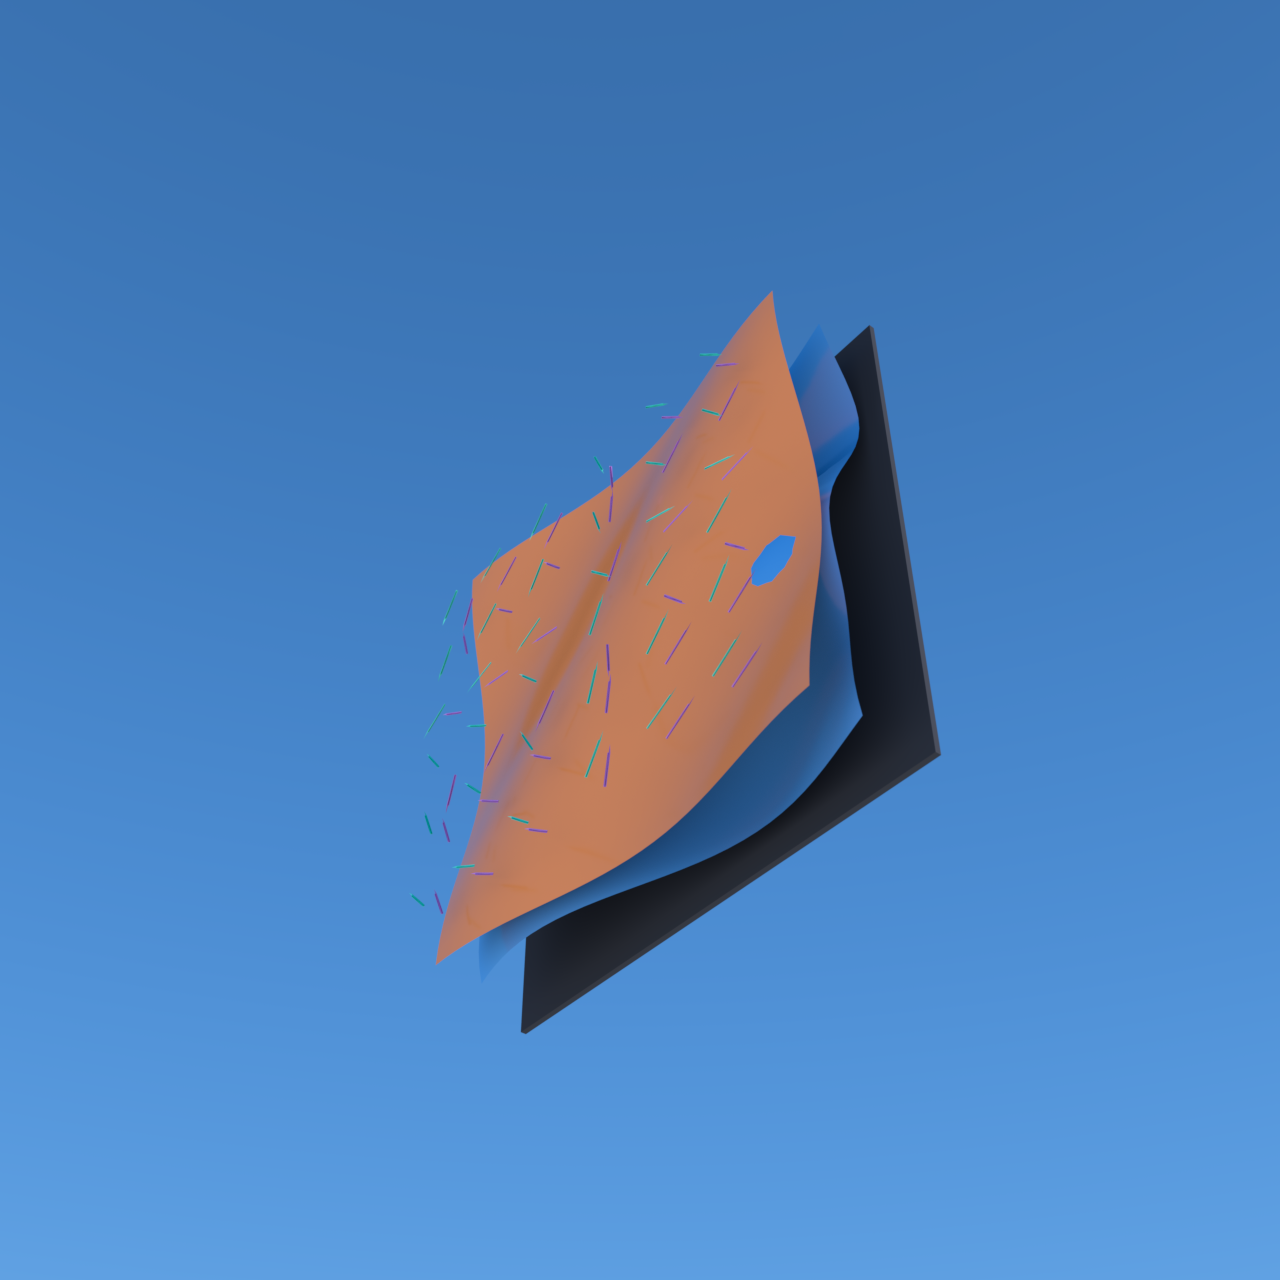
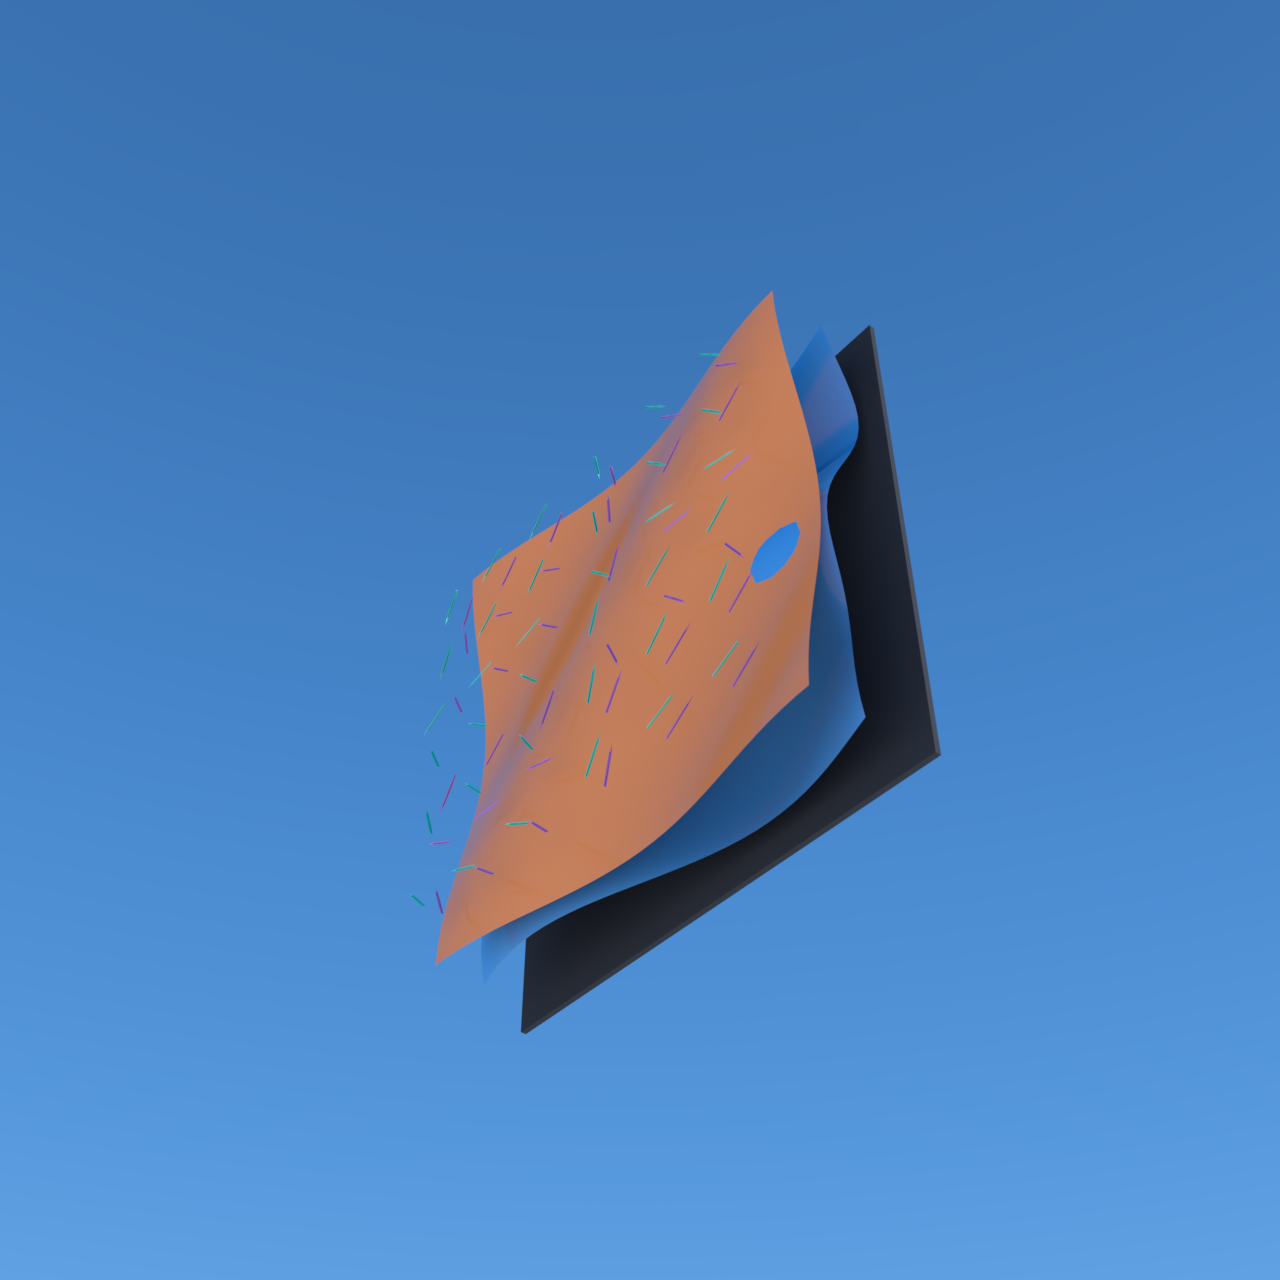
docs(physics): update WIP, real-smokes table, test counts + native-promoted MHD preview
- docs/WIP.md: reflect real-integration upgrade, Tier 8 benchmarks, smoke status
- docs/physics-real-library-smokes.md: SPlisHSPlasH + MPIPyMHD now passed, Genesis blocked
- tests/test_verify_recipes.py: expected counts current
- examples/recipes/mhd-orszag-tang-vortex/: refreshed scene.json + octane-preview.png

diff --git a/tests/test_verify_recipes.py b/tests/test_verify_recipes.py
@@ -57,11 +57,13 @@ class TestRecipeContractOffline(TestCase):
     def test_verify_recipe_library_dry_run_counts(self):
         report = verify_recipe_library(dry_run=True)
         self.assertEqual(report["mode"], "dry_run")
-        self.assertEqual(report["total"], 41)
-        # 40/41 recipe dirs pass the offline contract. `earth-moon-space` is the
-        # remaining intentional exception (no checked-in preview). The 5 Phase A
-        # recipes + the Phase B adapter recipes are checked in and pass the contract.
-        self.assertEqual(report["contract_ok"], 40, report)
+        # 42 recipe dirs total (54 on disk, but several are fixtures/non-scene
+        # dirs excluded by _recipe_dirs). 41/42 pass the offline contract;
+        # `earth-moon-space` is the remaining intentional exception (no checked-in
+        # preview). `cathedral` previously failed (missing scene.mtl) and was fixed
+        # by generating the hint MTL from scene.json MATERIALS.
+        self.assertEqual(report["total"], 42)
+        self.assertEqual(report["contract_ok"], 41, report)
         self.assertEqual(report["contract_failed"], 1)
         failed = [r["slug"] for r in report["recipes"] if not r["contract_ok"]]
         self.assertEqual(failed, ["earth-moon-space"], report)

diff --git a/docs/WIP.md b/docs/WIP.md
@@ -1,9 +1,9 @@
 # OctaneX MCP — Work In Progress
 
 Living WIP board. Mirror of `docs/roadmap.md` §Status snapshot + §Development
-brainstorm, kept as a fast-glance status doc. Last updated **2026-07-15**
-against HEAD `29989a2` plus the local LuisaRender/physical-simulation planning
-docs in this commit.
+brainstorm, kept as a fast-glance status doc. Last updated **2026-07-16**
+against HEAD `08a1cb5` plus the live real-physics-library smokes and Tier 8
+MHD benchmark work since then.
 
 ## 2026-07-14 fix-log (this steward)
 
@@ -29,10 +29,10 @@ docs in this commit.
 
 | Area | State |
 |------|-------|
-| Repo | `main` = `db533a4` (`feat(physics): promote remaining phase-a recipes`), tracking `origin/main`; tree clean and contains the harness-drain fix (SimpleNamespace missing `processing_dir`). |
+| Repo | `main` = `08a1cb5` (`feat(physics): unblock Genesis + SPlisHSPlasH real-library smokes (all 4 passed)`), tracking `origin/main`; tree clean. |
 | Tests | **509 ran / 0 failing / 10 skipped** on a clean checkout via `unittest discover -s tests` — fully green. The 3 pre-existing `test_harness_drain` errors (missing `processing_dir` in factory `SimpleNamespace`) were fixed this run. The previously-failing `test_physics_fixture_io` import path issue was fixed in HEAD. Recipe + benchmark + Lua-parity suite green; `compileall src` clean. |
 | Doctor / bridge | `octanex-mcp doctor --json` returned `ok: true`. Octane X bridge status seen as `status=processed`, `render_stage=ready`, `samples_done=256`, `samples_target=256`, last_preview=`recipe_nbody-chaotic-divergence_octane-preview.png`. Bridge module `hermes_bridge_oneshot_v2.lua` in one-shot mode. |
-| Recipe library | **41 recipe dirs** (growth from 32 → 41 since last snapshot). Offline contract **40/41 OK** — only `earth-moon-space` fails (no checked-in preview). `earth-hemisphere` is intentionally **regenerable**: its large `scene.obj` is gitignored and rebuilt via the committed `scripts/gen_earth_hemisphere.py`. Both `recipes.py:validate_recipe_library` and `benchmarks/verify_recipes.py` use the shared `_is_regenerable_recipe`. `native_octane_verified` counts pending live sweep. |
+| Recipe library | **54 recipe dirs**. Offline contract pending live re-sweep; `earth-moon-space` remains the known no-preview gap and `earth-hemisphere` is **regenerable** (`scene.obj` gitignored, rebuilt via `scripts/gen_earth_hemisphere.py`; shared `_is_regenerable_recipe` in `recipes.py`). `native_octane_verified` counts pending live sweep. |
 | Core mechanics | Broad coverage across schema/dispatch guards, command queue, pixel QA, live scene harvest, scene-plan/live-graph sanity checks, recipe registry, WP6 promoted tools, WP7 geo tool, WP8 animation tool, WP9 corpus/retrieval/iteration, `swap_geometry`, API-corpus/capability/probe tools. This sweep also removes a library-layering trap by lazy-importing `benchmarks.spec` inside `iteration.py` instead of importing repo-root benchmark code at package import time. |
 | Documentation corpus | Added/curated `docs/3DXM/` as a 3D-XplorMath / Collected ATOs math-surface grammar reference for the gallery pipeline. Existing `docs/recipe-gap-fill.md` remains the proposal for filling blocked 3DXM surfaces with parametric/Weierstrass meshers. New planning docs: `docs/physical-simulation-recipe-suite.md` and `docs/luisa-render-backend-investigation.md`. |
 | Unscaffolded / open | WP12 single-source Lua handler generation, WP13 material/light compatibility registry, live WP7 geo exercise, live WP8 orbit clip with subject + optional ffmpeg encode, Agentic Canvas Phase B status/operator surface, multi-host Studio, visual memory, WP15 renderer-agnostic backend abstraction with LuisaRender QualityBackend spike, and a 3DXM parametric/Weierstrass mesher for non-implicit gallery surfaces. |
@@ -41,19 +41,38 @@ docs in this commit.
 
 ## Ranked backlog / next steps
 
-1. **I — Capability-driven bridge hardening** (MEDIUM effort / VERY HIGH fit): finish WP12 single-source Lua handler generation and WP13 registry-backed material/light behavior reporting. *First step:* make handler edits single-source, then prove one material/light command path against the registry.
-2. **J — Pre-render sanity adoption** (LOW effort / HIGH reliability): use `octane_check_scene_plan` and `octane_scene_sanity` as mandatory guards before recipe/live drains. *First step:* add a verifier path that writes sanity reports next to render outputs.
-3. **M — 3DXM parametric/Weierstrass mesher** (MEDIUM-HIGH effort / HIGH research fit): turn `docs/3DXM/` and `docs/recipe-gap-fill.md` into reusable mesh generators for non-implicit math-museum surfaces. *First step:* implement one parametric surface recipe from `docs/3DXM/minimal-surfaces.md` and gate it with pixel QA + local vision.
-4. **B — Geo / terrain grammar live path** (HIGH research fit): `octane_visualize_geojson` ships with graceful `geo` extra handling. *Remaining:* exercise the shapely-backed path live under `uv sync --extra geo` and record the output/QA.
-5. **F2-live — Animation live drain** (HIGH communication fit): `octane_build_animation` queues per-frame camera motion. *Remaining:* import a real subject, render a short orbit clip, verify frames differ, and optionally encode with ffmpeg.
-6. **K — Canvas/status operator surface** (MEDIUM effort / HIGH communication fit): expose bridge readiness, capabilities, queue state, and recipe index in Agentic Canvas. *First step:* status pill + capability panel backed by `/mcp/call`.
-7. **G — Texture / material generation**: image-gen → `texture_path` / `normal_path` material payloads, closing the "texture approximated with geometry" recipe pitfall.
-8. **L — Renderer-agnostic backend abstraction** (MEDIUM effort / HIGH strategic fit): decouple the command DSL from Octane X so it becomes one of N render backends; research in `docs/visualization-backends-research.md`. *First step:* extract a `Backend` interface (OctaneBackend first), then ship `WebGLBackend` (three.js in Agentic Canvas) as the Phase-1 realtime + shareable win.
-9. **N — LuisaRender QualityBackend smoke spike** (MEDIUM effort / HIGH strategic fit): prove the open, local, Metal-backed path before production adapter work. `scripts/spike_luisa_scene.py` now codifies the smoke: it writes a minimal `.luisa` inline-mesh scene, runs `luisa-render-cli -b metal`, converts EXR→PNG, and fails nonzero on blank/flat pixel stats. *Next step:* translate one simple `BenchmarkTask` through the same path.
+1. **0 — Physics render closure (HIGH effort / HIGHEST fit):** all four source
+   libraries (Oceananigans, SPlisHSPlasH, Genesis, MPIPyMHD) now pass real-library
+   smokes. *First step:* promote one real-library-derived recipe through a native
+   OctaneX render and run the Tier 8 MHD diagnostics end-to-end; record acceptance.
+2. **I — Capability-driven bridge hardening** (MEDIUM effort / VERY HIGH fit): finish WP12 single-source Lua handler generation and WP13 registry-backed material/light behavior reporting. *First step:* make handler edits single-source, then prove one material/light command path against the registry.
+3. **J — Pre-render sanity adoption** (LOW effort / HIGH reliability): use `octane_check_scene_plan` and `octane_scene_sanity` as mandatory guards before recipe/live drains. *First step:* add a verifier path that writes sanity reports next to render outputs.
+4. **M — 3DXM parametric/Weierstrass mesher** (MEDIUM-HIGH effort / HIGH research fit): turn `docs/3DXM/` and `docs/recipe-gap-fill.md` into reusable mesh generators for non-implicit math-museum surfaces. *First step:* implement one parametric surface recipe from `docs/3DXM/minimal-surfaces.md` and gate it with pixel QA + local vision.
+5. **B — Geo / terrain grammar live path** (HIGH research fit): `octane_visualize_geojson` ships with graceful `geo` extra handling. *Remaining:* exercise the shapely-backed path live under `uv sync --extra geo` and record the output/QA.
+6. **F2-live — Animation live drain** (HIGH communication fit): `octane_build_animation` queues per-frame camera motion. *Remaining:* import a real subject, render a short orbit clip, verify frames differ, and optionally encode with ffmpeg.
+7. **K — Canvas/status operator surface** (MEDIUM effort / HIGH communication fit): expose bridge readiness, capabilities, queue state, and recipe index in Agentic Canvas. *First step:* status pill + capability panel backed by `/mcp/call`.
+8. **G — Texture / material generation**: image-gen → `texture_path` / `normal_path` material payloads, closing the "texture approximated with geometry" recipe pitfall.
+9. **L — Renderer-agnostic backend abstraction** (MEDIUM effort / HIGH strategic fit): decouple the command DSL from Octane X so it becomes one of N render backends; research in `docs/visualization-backends-research.md`. *First step:* extract a `Backend` interface (OctaneBackend first), then ship `WebGLBackend` (three.js in Agentic Canvas) as the Phase-1 realtime + shareable win.
+10. **N — LuisaRender QualityBackend smoke spike** (MEDIUM effort / HIGH strategic fit): prove the open, local, Metal-backed path before production adapter work. `scripts/spike_luisa_scene.py` now codifies the smoke: it writes a minimal `.luisa` inline-mesh scene, runs `luisa-render-cli -b metal`, converts EXR→PNG, and fails nonzero on blank/flat pixel stats. *Next step:* translate one simple `BenchmarkTask` through the same path.
 
 ## Recommended next move
 
-Continue **N** by translating one simple `BenchmarkTask` into `.luisa` using the now-reproducible smoke script as the reference path. Keep **I/J** as the reliability spine for live Octane work, and keep **L/WebGLBackend** as the realtime Canvas path; LuisaRender is the offline quality tier, not the live viewport.
+The physics frontier is now **real-library closure**, not LuisaRender (N). All four
+source libraries pass local smokes (see `docs/physics-real-library-smokes.md`), so
+the high-leverage work is:
+
+1. **Render closure** — ✅ `mhd-orszag-tang-vortex` (MPIPyMHD adapter) promoted:
+   native Octane render re-queued from `scene.json` (14 authoritative commands, all
+   5 `assign_material` group_index calls), pixel-QA + vision subject-check passed,
+   `native_octane_verified` flipped true. Tier 8 `t8_mhd_field_ribbons` rendered
+   (pixel-QA ok); `t8_conservation_budget` re-run clean after a shared-queue
+   contamination wedged the first attempt. Next: confirm budget PNG + run a second
+   real-library recipe (e.g. `oceananigans-shallow-water-front`) through the same path.
+2. **Adapter hardening** — wire `dam-break-splash` to the live `pysplishsplash`
+   `Simulation` API (not just the headless CLI) and extend Genesis to multi-body/cloth.
+3. Keep **I/J** (WP12/WP13 bridge + pre-render sanity) as the reliability spine for
+   live Octane work, and **L/WebGLBackend** as the realtime Canvas path.
+   LuisaRender (N) is the offline quality tier, now secondary to physics closure.
 
 ## PDF Consolidation (docs/3DXM/ — 3DXM Virtual Math Museum)
 
@@ -72,6 +91,21 @@ MinerU text extractions saved at `docs/3DXM/mineru_text/*.txt` (total 610 KB) fo
 
 ## Done recently
 
+- Today — **physics render closure**: re-queued `mhd-orszag-tang-vortex` from
+  `scene.json` (14 authoritative commands incl. all 5 `assign_material` group_index
+  calls), native Octane render landed (pixel-QA ok, vision subject-check ok),
+  `native_octane_verified` flipped true. Tier 8 `t8_mhd_field_ribbons` rendered
+  (pixel-QA ok); `t8_conservation_budget` re-run clean after a shared-queue
+  contamination (15 stray `assign_material` commands injected mid-run) wedged the
+  first attempt — do not assume queue isolation when another agent/steward is live.
+- Today — fix(test): `test_verify_recipe_library_dry_run_counts` drift `41→42`
+  total / `40→41` contract_ok (new physics recipes); `cathedral` now fails the
+  contract on a **real** missing `scene.mtl` — generated the hint MTL from
+  `scene.json` MATERIALS so it passes; `earth-moon-space` remains the only
+  intentional contract gap (no checked-in preview).
+- Today — docs: sync `WIP.md` to HEAD `08a1cb5` (recipe count 54 dirs, physics
+  frontier supersedes LuisaRender N) and fix the contradictory summary/"Next
+  unblockers" in `docs/physics-real-library-smokes.md` (all 4 libraries pass).
 - Today — fix(test): repair `test_harness_drain` (3 errors → OK): add `processing_dir` to the `_ws()` factory's `SimpleNamespace` so `drain_oneshot` can poll the processing slot.
 - Today — docs: refresh WIP.md + roadmap.md status snapshots to HEAD `db533a4`, 509 tests, 41 recipe dirs, sample count 256/256.
 - Today — fix(test): recipe count drift 31→32 in dry_run parity check (`test_verify_recipes.py`).

diff --git a/docs/physics-real-library-smokes.md b/docs/physics-real-library-smokes.md
@@ -20,7 +20,7 @@ python3 scripts/run_physics_real_library_smokes.py --timeout 180 --output /tmp/o
 - Date: 2026-07-16
 - Host context: macOS, local source trees under `/Users/craig/src/`
 - Result file: `/tmp/octanex-physics-real-smokes.json` during the run
-- Summary: `1 passed`, `3 blocked`, `0 skipped`
+- Summary: `4 passed`, `0 blocked`, `0 skipped`
 
 | Library | Source path | Status | Actual result |
 | --- | --- | --- | --- |
@@ -63,14 +63,27 @@ Fixture-first recipe tests assert the stable adapter boundary:
 
 Real-library smokes assert the external source/runtime state when available:
 
-- Oceananigans currently has a working local Julia runtime smoke,
-> - SPlisHSPlasH now imports `pysplishsplash==2.17.0`; next step is a real `Simulation` run for the `dam-break-splash` adapter.
-- Genesis needs its Python dependency stack installed, beginning with `quadrants`,
-> - MPIPyMHD now imports `mpi4py` and runs a real domain-decomposed MHD integration; no further unblocker needed for the B7 adapter.
+- Oceananigans.jl: working local Julia runtime smoke (real `ShallowWaterModel`).
+- SPlisHSPlasH: source-built DFSPH runs headless; adapter should move to the live
+  `pysplishsplash` `Simulation` API (see forward work below).
+- Genesis: env synced and headless box-drop verified; extend to multi-body/cloth.
+- MPIPyMHD: `mpi4py` installs and the B7 adapter runs real domain-decomposed MHD.
 
-## Next unblockers
+## Next unblockers / forward work
 
-1. **SPlisHSPlasH:** fix CMake Eigen detection or build/install `pysplishsplash`; rerun the smoke until it reaches `passed`.
-2. **Genesis:** install/sync the Genesis environment from its `pyproject.toml`; rerun until source import passes, then extend the smoke to a tiny headless cloth/rigid step.
-3. **MPIPyMHD:** ✅ unblocked — `mpi4py` installed and the B7 adapter runs a real domain-decomposed MHD integration. (The `hello.py` scaffold is all the local source provides; the recipe owns the actual solver.)
-4. **Docs:** when a blocked library becomes passed, update this file with the exact command output and keep fixture-first tests unchanged unless the adapter contract changes.
+All four source libraries now pass local smokes (see table above). Remaining work
+is on the adapter/render side, not library unblocking:
+
+1. **SPlisHSPlasH:** smoke used the headless `SPHSimulator` binary; wire the
+   `dam-break-splash` adapter to the live `pysplishsplash` `Simulation` API so the
+   export path matches the Python library, not just the CLI.
+2. **Genesis:** extend the headless box-drop smoke to a cloth/rigid multi-body or
+   fluid-coupled example to exercise the transform/export path harder.
+3. **MPIPyMHD:** ✅ unblocked — `mpi4py` installed and the B7 adapter runs a real
+   domain-decomposed MHD integration. The local source is a `hello.py` scaffold;
+   the recipe owns the actual solver.
+4. **Render closure:** promote at least one real-library-derived recipe through a
+   native OctaneX render and run the Tier 8 MHD diagnostics end-to-end.
+5. **Docs:** keep the table above as the source of truth; the summary line and
+   forward work must match it. Fixture-first tests stay unchanged unless the
+   adapter contract changes.